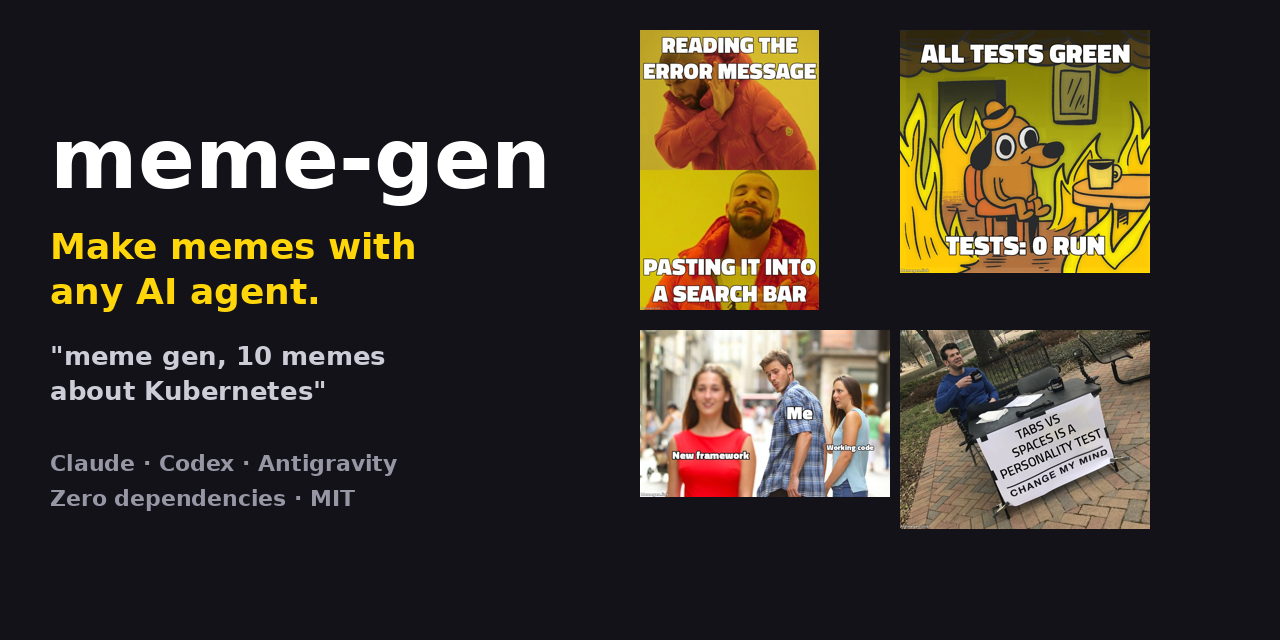
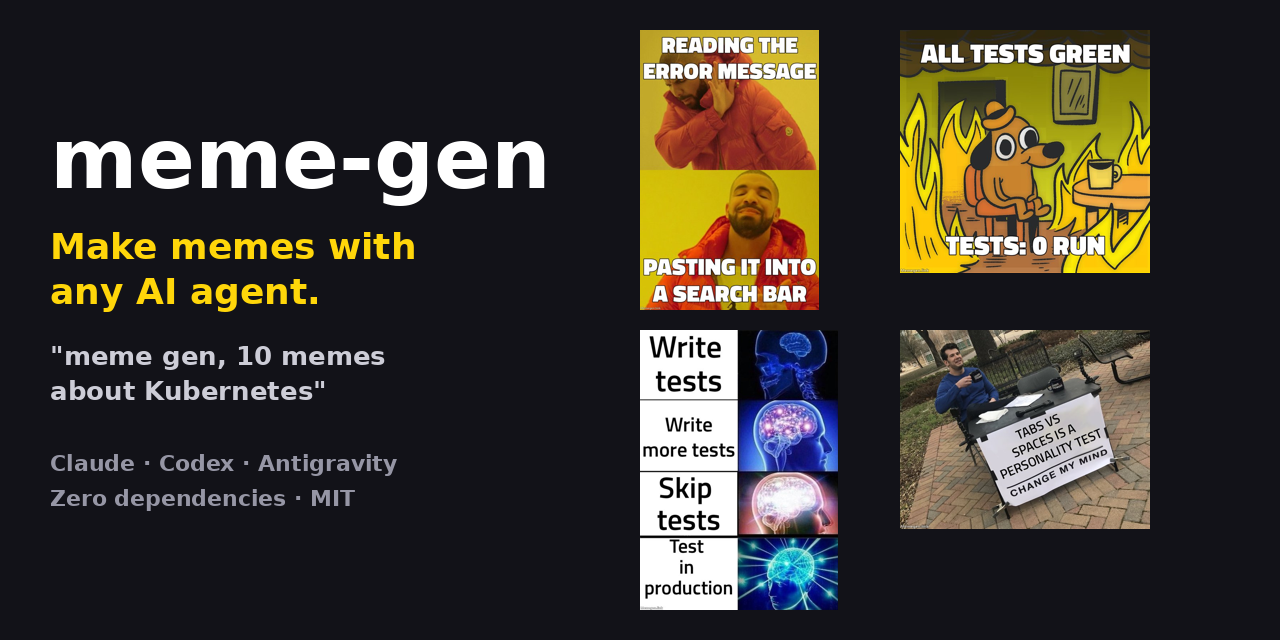
docs: add demo animation and refresh README gallery

Changed region(s): [[0.5, 0.5, 0.7188, 0.9688]]

diff --git a/README.md b/README.md
@@ -7,10 +7,12 @@
 ![python 3.8+](https://img.shields.io/badge/python-3.8%2B-blue)
 ![dependencies: none](https://img.shields.io/badge/dependencies-none-brightgreen)
 
+<p align="center"><img src="assets/demo.gif" alt="Demo: install meme-gen, open your AI agent, say meme gen, get memes" width="720"><br><sub>Demo animation of the workflow. The memes shown are real meme-gen output.</sub></p>
+
 **Say "meme gen, 10 memes about Kubernetes" to your AI agent and get finished, funny meme images in your folder in about a minute.** A free, open-source Agent Skill (`SKILL.md`) plus a zero-dependency Python CLI. No API key, no image-model credits.
 
 <p align="center">
-<img src="assets/demo-drake.jpg" width="23%"> <img src="assets/demo-fine.jpg" width="23%"> <img src="assets/demo-db.jpg" width="23%"> <img src="assets/demo-cmm.jpg" width="23%">
+<img src="assets/demo-drake.jpg" width="23%"> <img src="assets/demo-fine.jpg" width="23%"> <img src="assets/demo-gb.jpg" width="23%"> <img src="assets/demo-cmm.jpg" width="23%">
 </p>
 
 *Made with one prompt, no editing.*
